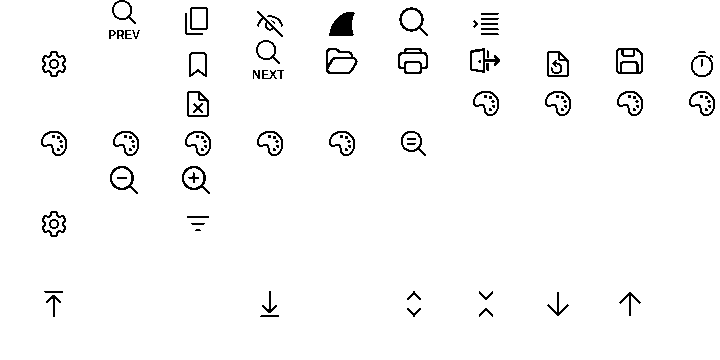
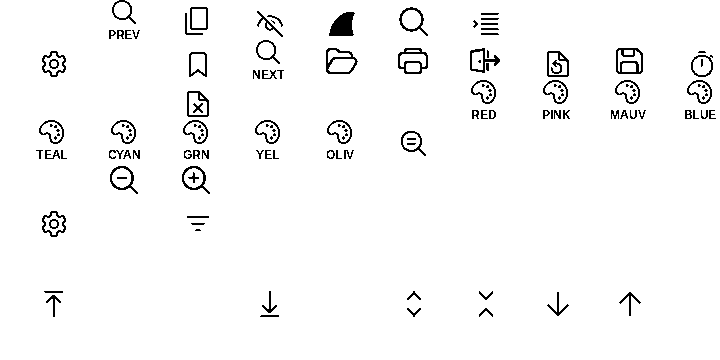
Wireshark overlay: name the colour on each colorize key
Ctrl+1..9 showed nine identical palettes. Each key now shows the palette
above the name of Wireshark's default colour for it (gui_colorized_bg in
epan/prefs.c): RED, PINK, MAUV, BLUE, TEAL, CYAN, GRN, YEL, OLIV.

Claude-Session: https://claude.ai/code/session_01U989duoKHjSn5t9U1ruejA

diff --git a/polyhost/res/overlay_sources/wireshark/fetch_icons.py b/polyhost/res/overlay_sources/wireshark/fetch_icons.py
@@ -11,7 +11,7 @@ Three sources:
   `ms:` entries, for the actions the toolbar has no icon for.
 * `labelled()`: a glyph above a short word, 1-bit at 40x40, for the families
   that differ only by a word (Follow TCP/UDP/TLS, Copy description/value,
-  next/previous mark, time display formats).
+  next/previous mark, time display formats, conversation colours).
 
 The ESC mark is the Wireshark logo from Simple Icons (CC0 artwork; nominative
 use, see `../brand_marks.py`).
@@ -78,9 +78,6 @@ FLUENT = {
     "decodeas": "ms:transform",
     "bytes": "ms:data_array",
     "fileprops": "Info",
-    # Wireshark's view-colorize draws colour stripes, which are plain lines
-    # in 1 bit; a palette reads as "colour".
-    "colorize": "Color",
 }
 
 # Bases for the labelled icons; fetched like FLUENT, never bound directly.
@@ -98,6 +95,9 @@ BASES = {
     "_reload": "Arrow Clockwise",
     "_chevright": "Chevron Right",
     "_chevleft": "Chevron Left",
+    # Wireshark's view-colorize draws colour stripes, which are plain lines
+    # in 1 bit; a palette reads as "colour".
+    "_palette": "Color",
 }
 
 # output stem -> (base stem, word)
@@ -135,6 +135,17 @@ LABELLED = {
     "reloadfmt": ("_reload", "FMT"),
     "convnext": ("_chevright", "CONV"),
     "convprev": ("_chevleft", "CONV"),
+    # Colorize conversation 1..9: Wireshark's default background colours
+    # (epan/prefs.c, gui_colorized_bg), named by their nearest common colour.
+    "color1": ("_palette", "RED"),     # ffc0c0
+    "color2": ("_palette", "PINK"),    # ffc0ff
+    "color3": ("_palette", "MAUV"),    # e0c0e0
+    "color4": ("_palette", "BLUE"),    # c0c0ff
+    "color5": ("_palette", "TEAL"),    # c0e0e0
+    "color6": ("_palette", "CYAN"),    # c0ffff
+    "color7": ("_palette", "GRN"),     # c0ffc0
+    "color8": ("_palette", "YEL"),     # ffffc0
+    "color9": ("_palette", "OLIV"),    # e0e0c0
 }
 
 BOLD = "/usr/share/fonts/truetype/liberation/LiberationSans-Bold.ttf"

diff --git a/polyhost/res/overlay_sources/wireshark/SOURCES.md b/polyhost/res/overlay_sources/wireshark/SOURCES.md
@@ -77,10 +77,26 @@ Left out:
 | `capstart.png`, `capstop.png`, `capoptions.png`, `reload.png`, `fileclose.png`, `goto.png`, `first.png`, `last.png`, `resizecols.png`, `resetlayout.png`, `zoomreset.png`, `resetcolor.png`, `comment.png` | Wireshark `resources/svg_icons/` at commit 58dbdf1edd71c808aa982ba30bdd43fc00f688a7: capture-start, capture-stop, capture-options, file-reload, file-close, nav-goto, nav-first, nav-last, view-resize-columns, layout-reset-1, zoom-reset, reset, capture-comment | GPL-2.0-or-later (Wireshark); several are Fluent icons, see that folder's README.adoc |
 | the `FLUENT` and `BASES` entries of `fetch_icons.py` | Microsoft Fluent UI System Icons, <https://github.com/microsoft/fluentui-system-icons> | MIT |
 | the `ms:` entries | Material Symbols, <https://github.com/google/material-design-icons> | Apache-2.0 |
-| the `LABELLED` entries (`copydesc.png`, `followtcp.png`, `fmt1.png` …) | drawn by `fetch_icons.labelled()`: a base glyph scaled to 24 px high (or to the cell width) above a word in Liberation Sans Bold 12 px, 1-bit at 40×40 | (this repo) |
+| the `LABELLED` entries (`copydesc.png`, `followtcp.png`, `fmt1.png`, `color1.png` …) | drawn by `fetch_icons.labelled()`: a base glyph scaled to 24 px high (or to the cell width) above a word in Liberation Sans Bold 12 px, 1-bit at 40×40 | (this repo) |
 | `wireshark.png` (ESC) | Simple Icons `wireshark` | CC0-1.0 artwork; nominative use, see `../brand_marks.py` |
 
 Wireshark's `view-colorize` icon draws colour stripes, which become plain lines
-in 1 bit, so Ctrl+1 … 9 use Fluent `Color` (a palette) instead. Open, Save,
+in 1 bit, so Ctrl+1 … 9 use Fluent `Color` (a palette) above the name of the
+colour each key applies. The colours are Wireshark's defaults
+(`epan/prefs.c`, `gui_colorized_bg`), named by the nearest common colour:
+
+| Key | Background | Word |
+|---|---|---|
+| Ctrl+1 | ffc0c0 | RED |
+| Ctrl+2 | ffc0ff | PINK |
+| Ctrl+3 | e0c0e0 | MAUV |
+| Ctrl+4 | c0c0ff | BLUE |
+| Ctrl+5 | c0e0e0 | TEAL |
+| Ctrl+6 | c0ffff | CYAN |
+| Ctrl+7 | c0ffc0 | GRN |
+| Ctrl+8 | ffffc0 | YEL |
+| Ctrl+9 | e0e0c0 | OLIV |
+
+A user who changed the colours in the preferences sees the default names. Open, Save,
 Save as, Print, Quit, Copy, Find, Zoom in, Zoom out and Help are drawn by the
 shared concept renderer.
